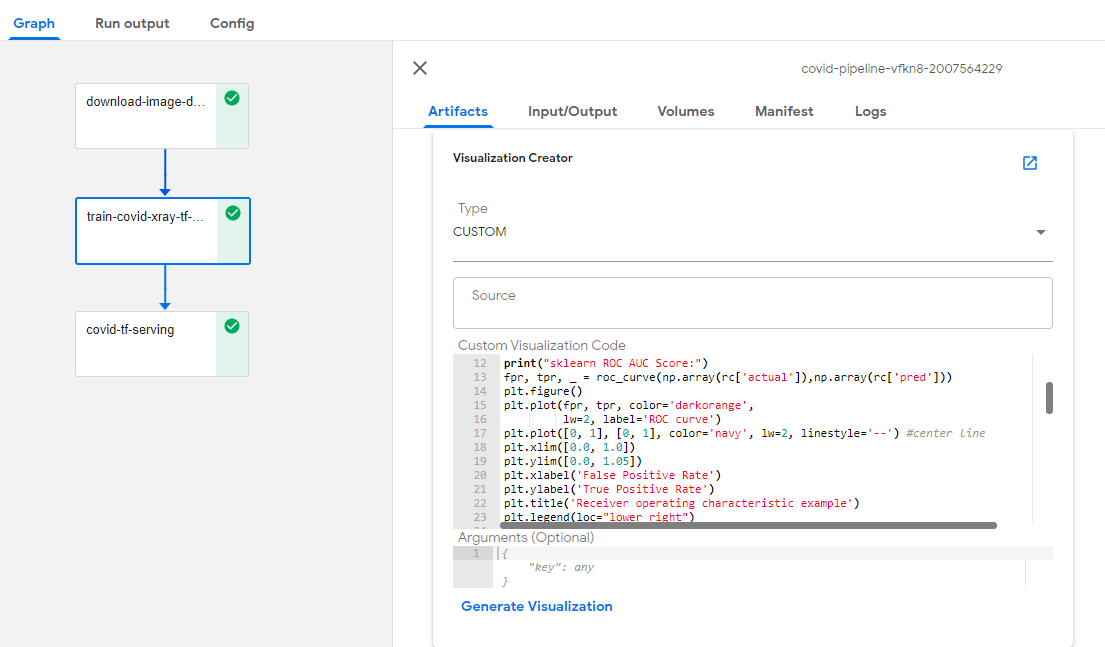
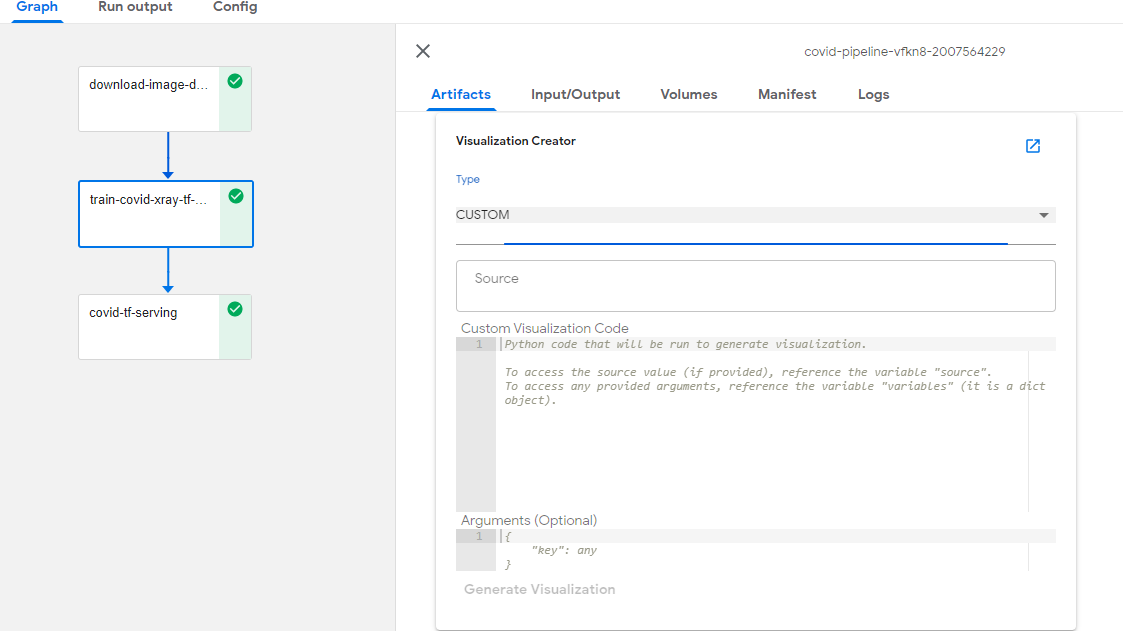
added custom-visualization file

diff --git a/apps/healthcare/covid/onprem/pipelines/chest-xray/custom-visualization.py b/apps/healthcare/covid/onprem/pipelines/chest-xray/custom-visualization.py
@@ -1,0 +1,64 @@
+
+from sklearn.metrics import precision_recall_curve
+from sklearn.metrics import roc_auc_score
+from sklearn.metrics import roc_curve
+import matplotlib.pyplot as plt
+import numpy as np
+import pandas as pd
+
+rd = pd.read_excel('xray_source.xlsx',index=None,sheet_name='Sheet2')
+rc = pd.read_excel('xray_source.xlsx',index=None,sheet_name='Sheet1')
+
+#ROC
+print("sklearn ROC AUC Score:")
+fpr, tpr, _ = roc_curve(np.array(rc['actual']),np.array(rc['pred']))
+plt.figure()
+plt.plot(fpr, tpr, color='darkorange',
+         lw=2, label='ROC curve')
+plt.plot([0, 1], [0, 1], color='navy', lw=2, linestyle='--') #center line
+plt.xlim([0.0, 1.0])
+plt.ylim([0.0, 1.05])
+plt.xlabel('False Positive Rate')
+plt.ylabel('True Positive Rate')
+plt.title('Receiver operating characteristic example')
+plt.legend(loc="lower right")
+plt.show()
+
+print("Precision-Recall Curve:")
+precision, recall, _ = precision_recall_curve(np.array(rc['actual']),np.array(rc['pred']))
+plt.step(recall, precision, color='g', alpha=0.2, where='post')
+plt.fill_between(recall, precision, alpha=0.2, color='g', step='post')
+plt.xlabel('Recall')
+plt.ylabel('Precision')
+plt.ylim([0.0, 1.0])
+plt.xlim([0.0, 1.0])
+plt.title('Precision-Recall curve')
+plt.show()
+
+print("Loss , Accuracy , F1Score , Precision")
+fig, (ax1, ax2, ax3, ax4) = plt.subplots(4,figsize=(7,7))
+# fig, ((ax1, ax2), (ax3, ax4)) = plt.subplots(2, 2)
+ax1.plot(rd['loss'], label='train_loss')
+ax1.plot(rd['val_loss'], label='test_test')
+ax1.set_title('loss')
+ax1.legend()
+
+fig.tight_layout(pad=1.0)
+ax2.plot(rd['acc'], label='train_acc')
+ax2.plot(rd['val_acc'], label='test_acc')
+ax2.set_title('acc')
+ax2.legend()
+
+fig.tight_layout(pad=1.0)
+ax3.plot(rd['f1_m'], label='f1_m')
+ax3.plot(rd['val_f1_m'], label='val_f1_m')
+ax3.set_title('f1_metrics')
+ax3.legend()
+
+fig.tight_layout(pad=1.0)
+ax4.plot(rd['precision_m'], label='precision_m')
+ax4.plot(rd['val_precision_m'], label='val_precision_m')
+ax4.set_title('precision')
+ax4.legend()
+
+
